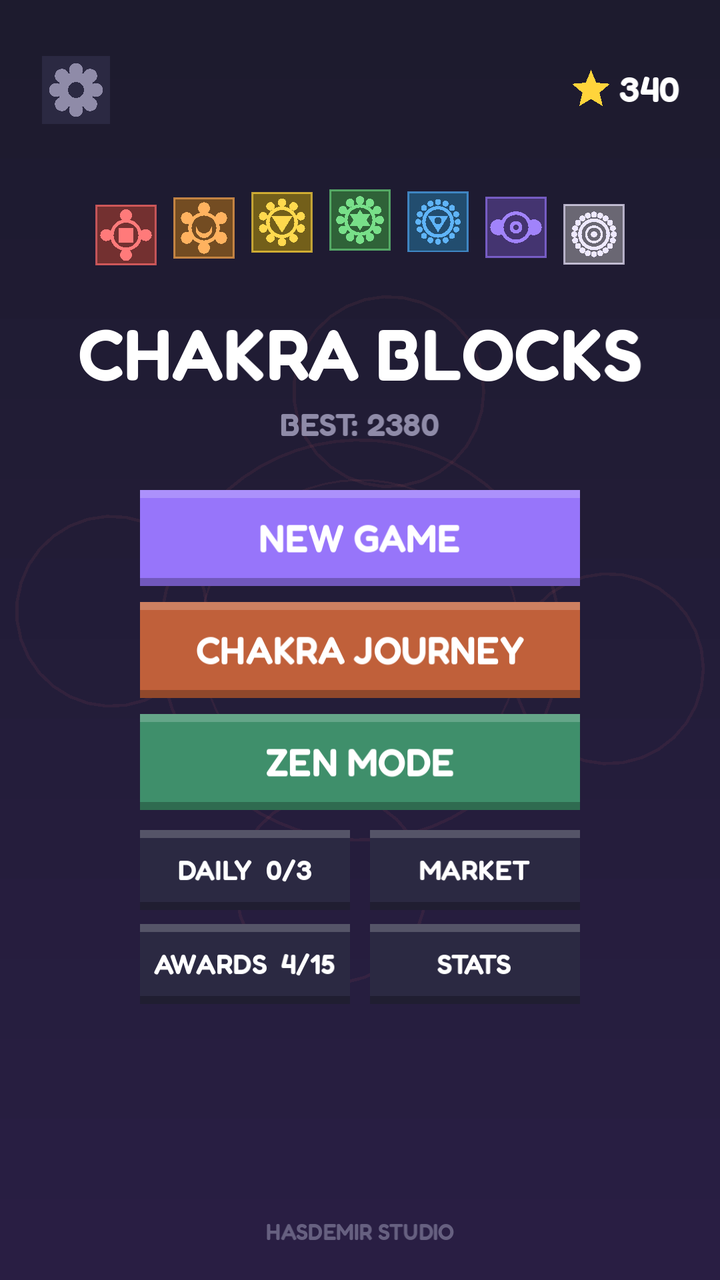
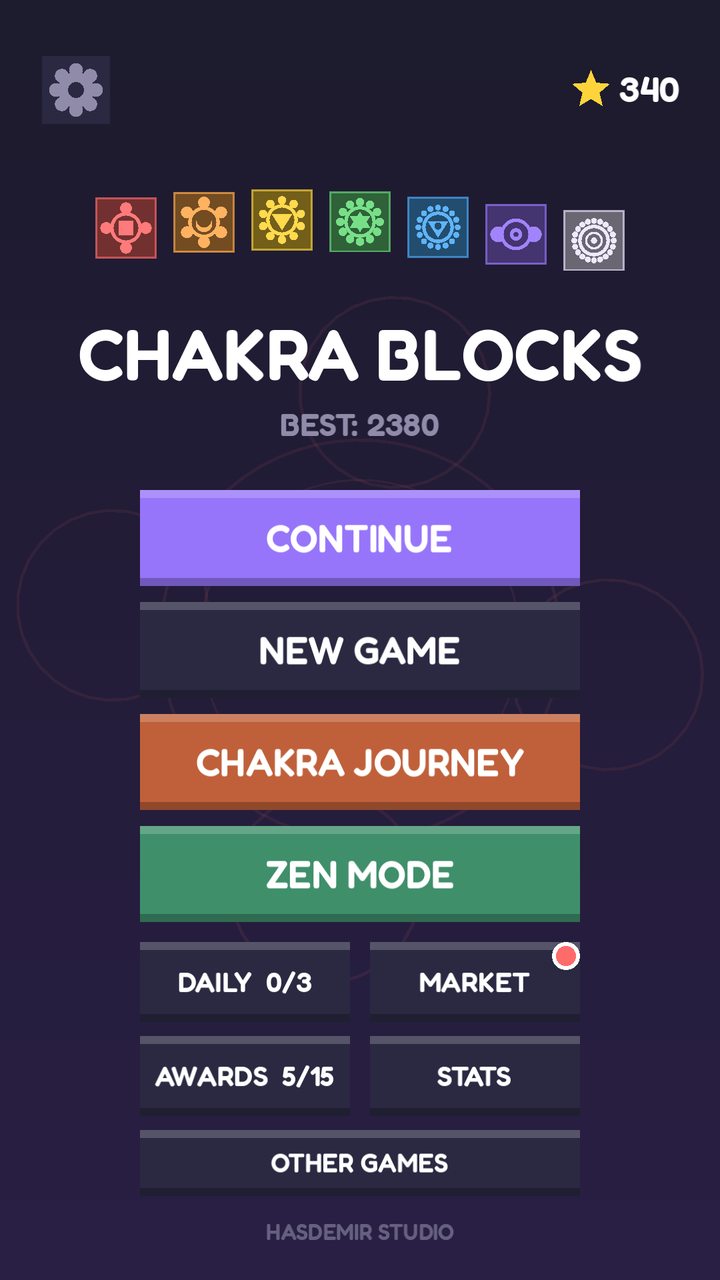
Chakra Blocks site: fresh screenshots, feature list, privacy policy review (24 Nov 2026)

diff --git a/chakra-blocks/privacy.html b/chakra-blocks/privacy.html
@@ -5,7 +5,7 @@
   <meta name="viewport" content="width=device-width, initial-scale=1">
   <title>Privacy Policy · Chakra Blocks</title>
   <meta name="description" content="Privacy policy for the Chakra Blocks mobile game by Hasdemir Studio.">
-  <link rel="icon" href="../assets/chakra-blocks-icon.svg?v=3" type="image/svg+xml">
+  <link rel="icon" href="../assets/chakra-blocks-icon.svg?v=4" type="image/svg+xml">
   <link rel="preconnect" href="https://fonts.googleapis.com">
   <link rel="stylesheet" href="https://fonts.googleapis.com/css2?family=Inter:wght@400;600&family=Space+Grotesk:wght@500;700&display=swap">
   <link rel="stylesheet" href="../assets/style.css">
@@ -20,7 +20,7 @@
 
   <main class="wrap legal">
     <h1>Privacy Policy</h1>
-    <p class="meta">Chakra Blocks · Hasdemir Studio · Effective date: 19 November 2026</p>
+    <p class="meta">Chakra Blocks · Hasdemir Studio · Last updated: 24 November 2026</p>
     <div class="lang-switch"><a href="#en">English</a><a href="#tr">Türkçe</a></div>
 
     <div id="en">
@@ -32,7 +32,7 @@
 
       <h2>3. Data stored on your device</h2>
       <p>Your progress (scores, stars, unlocked themes, quests, settings and saved games) is stored only on your device. It is not sent to us. Uninstalling the Game deletes this data.</p>
-      <p>The Game downloads the list of our other games (names, descriptions and icons) from our website. No personal data is sent with this request.</p>
+      <p>The Game downloads the list of our other games (names, descriptions and icons) from our website. No personal data is sent with this request; as with any web request, the server hosting our website may see your IP address. The downloaded list is kept on your device so it can be shown offline. The "Rate us" button and the cards in that list simply open the relevant Google Play page.</p>
 
       <h2>4. Advertising</h2>
       <p>The Game may show ads, including optional rewarded ads that you choose to watch, through Google AdMob, a service provided by Google. To show and measure ads, Google may collect and process information such as your device's advertising ID, IP address, device model, operating system, approximate location (estimated from your IP address), how you interact with ads, and crash and diagnostic information about the ad service. Google uses this information according to its own policies:</p>
@@ -52,7 +52,7 @@
       <p>Because we do not hold personal information about you, there is usually nothing for us to access, correct or delete. For data processed by Google for advertising, you can use the controls described in Google's policies. If you have a question or request, contact us and we will help.</p>
 
       <h2>8. Changes to this policy</h2>
-      <p>We may update this policy when the Game changes. The effective date at the top shows when it was last updated.</p>
+      <p>We may update this policy when the Game changes. The "last updated" date at the top shows when it was last changed.</p>
 
       <h2>9. Contact</h2>
       <p>Hasdemir Studio · <span class="mail"><a href="mailto:hsdmrsoft@gmail.com">hsdmrsoft@gmail.com</a></span></p>
@@ -60,7 +60,7 @@
 
     <div id="tr">
       <h1 style="margin-top:64px">Gizlilik Politikası</h1>
-      <p class="meta">Chakra Blocks · Hasdemir Studio · Yürürlük tarihi: 19 Kasım 2026</p>
+      <p class="meta">Chakra Blocks · Hasdemir Studio · Son güncelleme: 24 Kasım 2026</p>
 
       <h2>1. Biz kimiz</h2>
       <p>Chakra Blocks ("Oyun"), Türkiye'de faaliyet gösteren bağımsız geliştirici Hasdemir Studio ("biz") tarafından geliştirilmiştir. Bu politika, Oyun'un hangi bilgileri neden işlediğini açıklar.</p>
@@ -70,7 +70,7 @@
 
       <h2>3. Cihazınızda saklanan veriler</h2>
       <p>İlerlemeniz (skorlar, yıldızlar, açılan temalar, görevler, ayarlar ve kayıtlı oyunlar) yalnızca cihazınızda saklanır ve bize gönderilmez. Oyun'u kaldırdığınızda bu veriler silinir.</p>
-      <p>Oyun, diğer oyunlarımızın listesini (adlar, açıklamalar ve simgeler) web sitemizden indirir. Bu istekle birlikte kişisel veri gönderilmez.</p>
+      <p>Oyun, diğer oyunlarımızın listesini (adlar, açıklamalar ve simgeler) web sitemizden indirir. Bu istekle birlikte kişisel veri gönderilmez; her web isteğinde olduğu gibi web sitemizi barındıran sunucu IP adresinizi görebilir. İndirilen liste, çevrimdışıyken de gösterilebilmesi için cihazınızda saklanır. "Değerlendir" düğmesi ve bu listedeki kartlar yalnızca ilgili Google Play sayfasını açar.</p>
 
       <h2>4. Reklamlar</h2>
       <p>Oyun, Google tarafından sağlanan Google AdMob hizmeti aracılığıyla, izlemeyi kendi isteğinizle seçtiğiniz ödüllü reklamlar dahil olmak üzere reklam gösterebilir. Google, reklamları göstermek ve ölçmek için cihazınızın reklam kimliği, IP adresi, cihaz modeli, işletim sistemi, IP adresinizden tahmin edilen yaklaşık konumunuz, reklamlarla etkileşiminiz ve reklam hizmetine ait hata ve teşhis bilgileri gibi bilgileri toplayabilir ve işleyebilir. Google bu bilgileri kendi politikalarına göre kullanır:</p>
@@ -90,7 +90,7 @@
       <p>Hakkınızda kişisel veri tutmadığımız için genellikle erişilecek, düzeltilecek veya silinecek bir veri bulunmaz. 6698 sayılı Kişisel Verilerin Korunması Kanunu (KVKK) kapsamındaki haklarınızla ilgili sorularınız için bizimle iletişime geçebilirsiniz. Google'ın reklam için işlediği veriler için Google'ın politikalarında açıklanan ayarları kullanabilirsiniz.</p>
 
       <h2>8. Bu politikadaki değişiklikler</h2>
-      <p>Oyun değiştikçe bu politikayı güncelleyebiliriz. En üstteki yürürlük tarihi son güncellemeyi gösterir.</p>
+      <p>Oyun değiştikçe bu politikayı güncelleyebiliriz. En üstteki "son güncelleme" tarihi politikanın en son ne zaman değiştiğini gösterir.</p>
 
       <h2>9. İletişim</h2>
       <p>Hasdemir Studio · <span class="mail"><a href="mailto:hsdmrsoft@gmail.com">hsdmrsoft@gmail.com</a></span></p>

diff --git a/chakra-blocks/index.html b/chakra-blocks/index.html
@@ -5,7 +5,7 @@
   <meta name="viewport" content="width=device-width, initial-scale=1">
   <title>Chakra Blocks · Hasdemir Studio</title>
   <meta name="description" content="Chakra Blocks is a relaxing block puzzle game by Hasdemir Studio: seven chakra colors, Zen mode, endless journey adventures and a style market.">
-  <link rel="icon" href="../assets/chakra-blocks-icon.svg?v=3" type="image/svg+xml">
+  <link rel="icon" href="../assets/chakra-blocks-icon.svg?v=4" type="image/svg+xml">
   <link rel="preconnect" href="https://fonts.googleapis.com">
   <link rel="stylesheet" href="https://fonts.googleapis.com/css2?family=Inter:wght@400;600&family=Space+Grotesk:wght@500;700&display=swap">
   <link rel="stylesheet" href="../assets/style.css">
@@ -30,9 +30,9 @@
     <section>
       <div class="wrap">
         <div class="shots">
-          <img src="../assets/cb-menu.png?v=2" alt="Chakra Blocks main menu">
-          <img src="../assets/cb-play.png?v=2" alt="A board with chakra-symbol blocks on a midnight board and dusk background">
-          <img src="../assets/cb-themes.png?v=2" alt="Market with separate block, board and background styles">
+          <img src="../assets/cb-menu.png?v=3" alt="Chakra Blocks main menu">
+          <img src="../assets/cb-play.png?v=3" alt="A board with chakra-symbol blocks on a midnight board and dusk background">
+          <img src="../assets/cb-themes.png?v=3" alt="Market with separate block, board and background styles">
         </div>
       </div>
     </section>
@@ -47,6 +47,7 @@
           <li><b>Chakra Harmony and Stones</b>Clear all seven colors at once, or pop every block of one color.</li>
           <li><b>Daily quests and streaks</b>Fresh goals every day and rewards for coming back.</li>
           <li><b>Market</b>Mix block, board and background styles on your own, with a daily sale and set bonuses.</li>
+          <li><b>Saves your progress</b>Everything is stored on your device, and an unfinished game picks up where you left off.</li>
         </ul>
       </div>
     </section>

diff --git a/index.html b/index.html
@@ -30,7 +30,7 @@
       <div class="wrap">
         <h2>Our work</h2>
         <article class="product">
-          <img src="assets/chakra-blocks-icon.svg?v=3" alt="Chakra Blocks app icon">
+          <img src="assets/chakra-blocks-icon.svg?v=4" alt="Chakra Blocks app icon">
           <div>
             <h3>Chakra Blocks</h3>
             <p>A relaxing block puzzle with seven chakra colors, soothing sounds, a breathing Zen mode, endless journey adventures and a market of block, board and background styles.</p>
